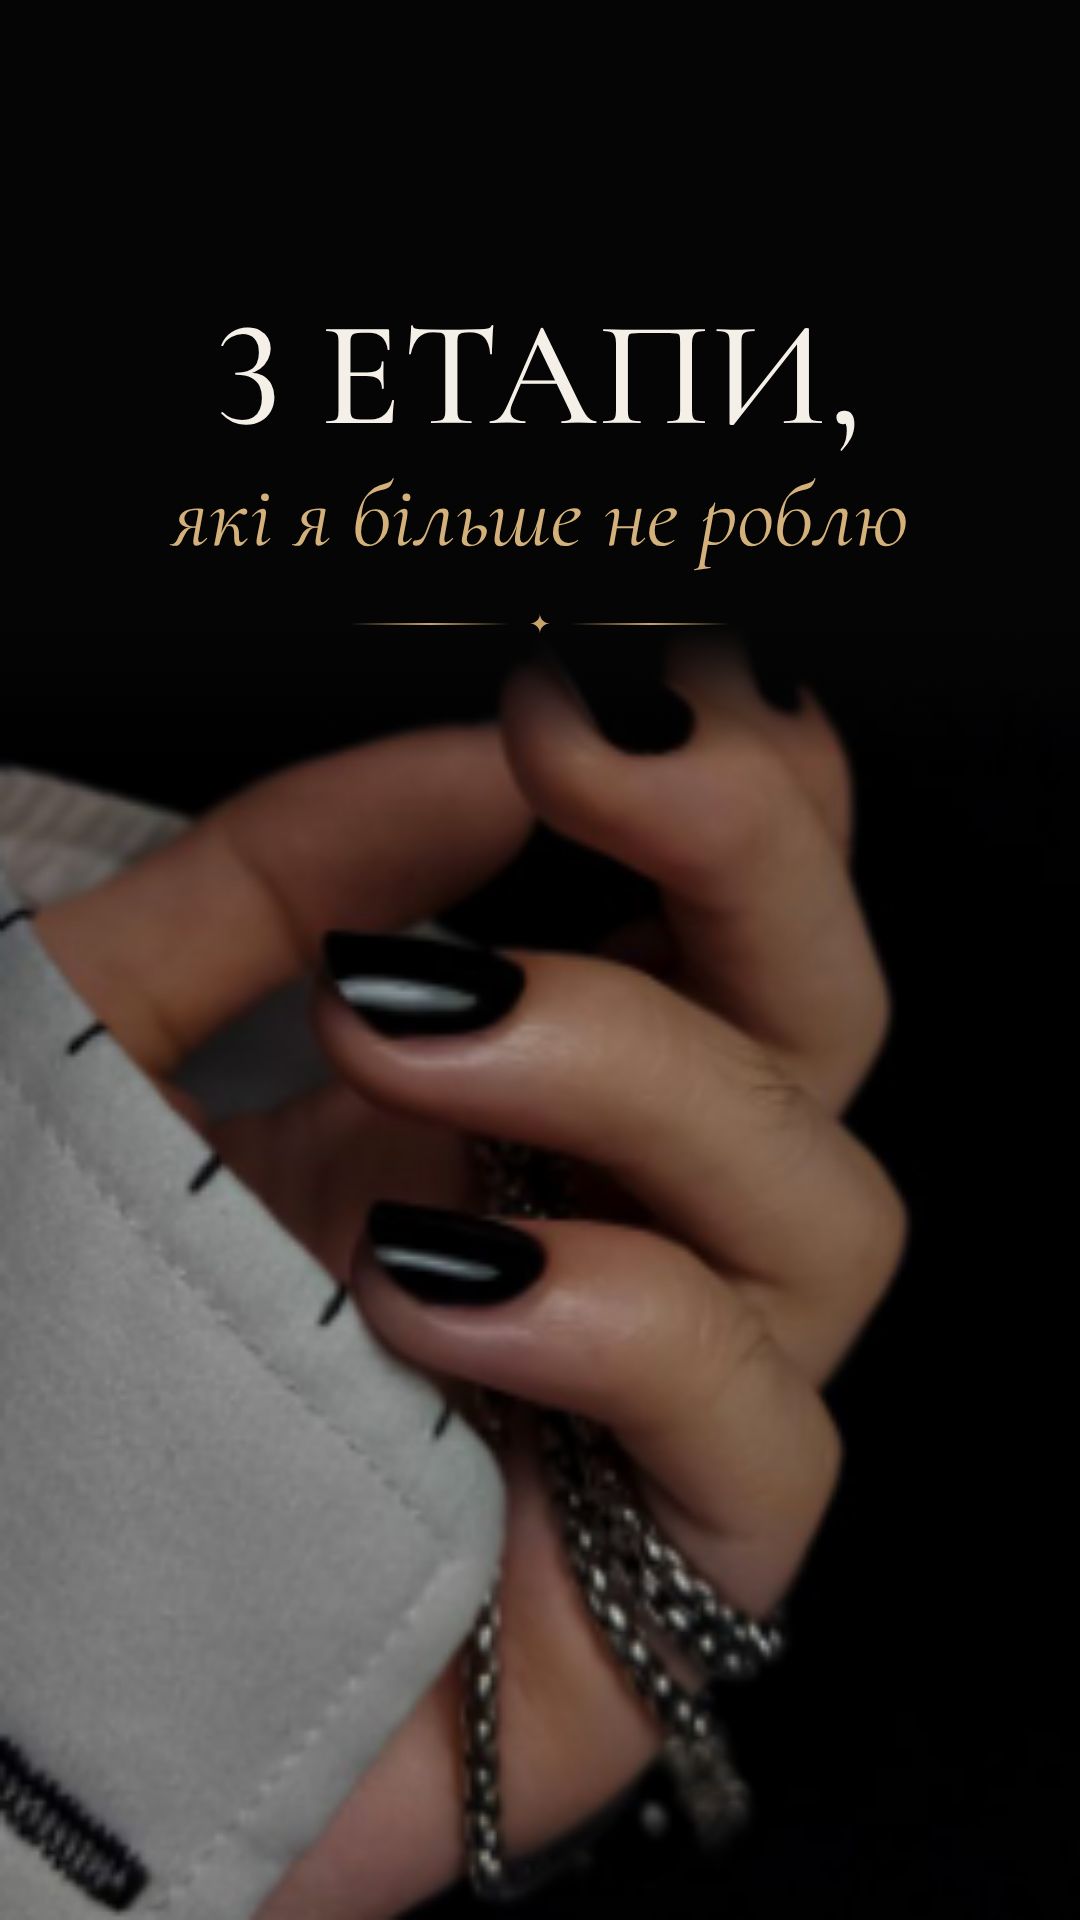
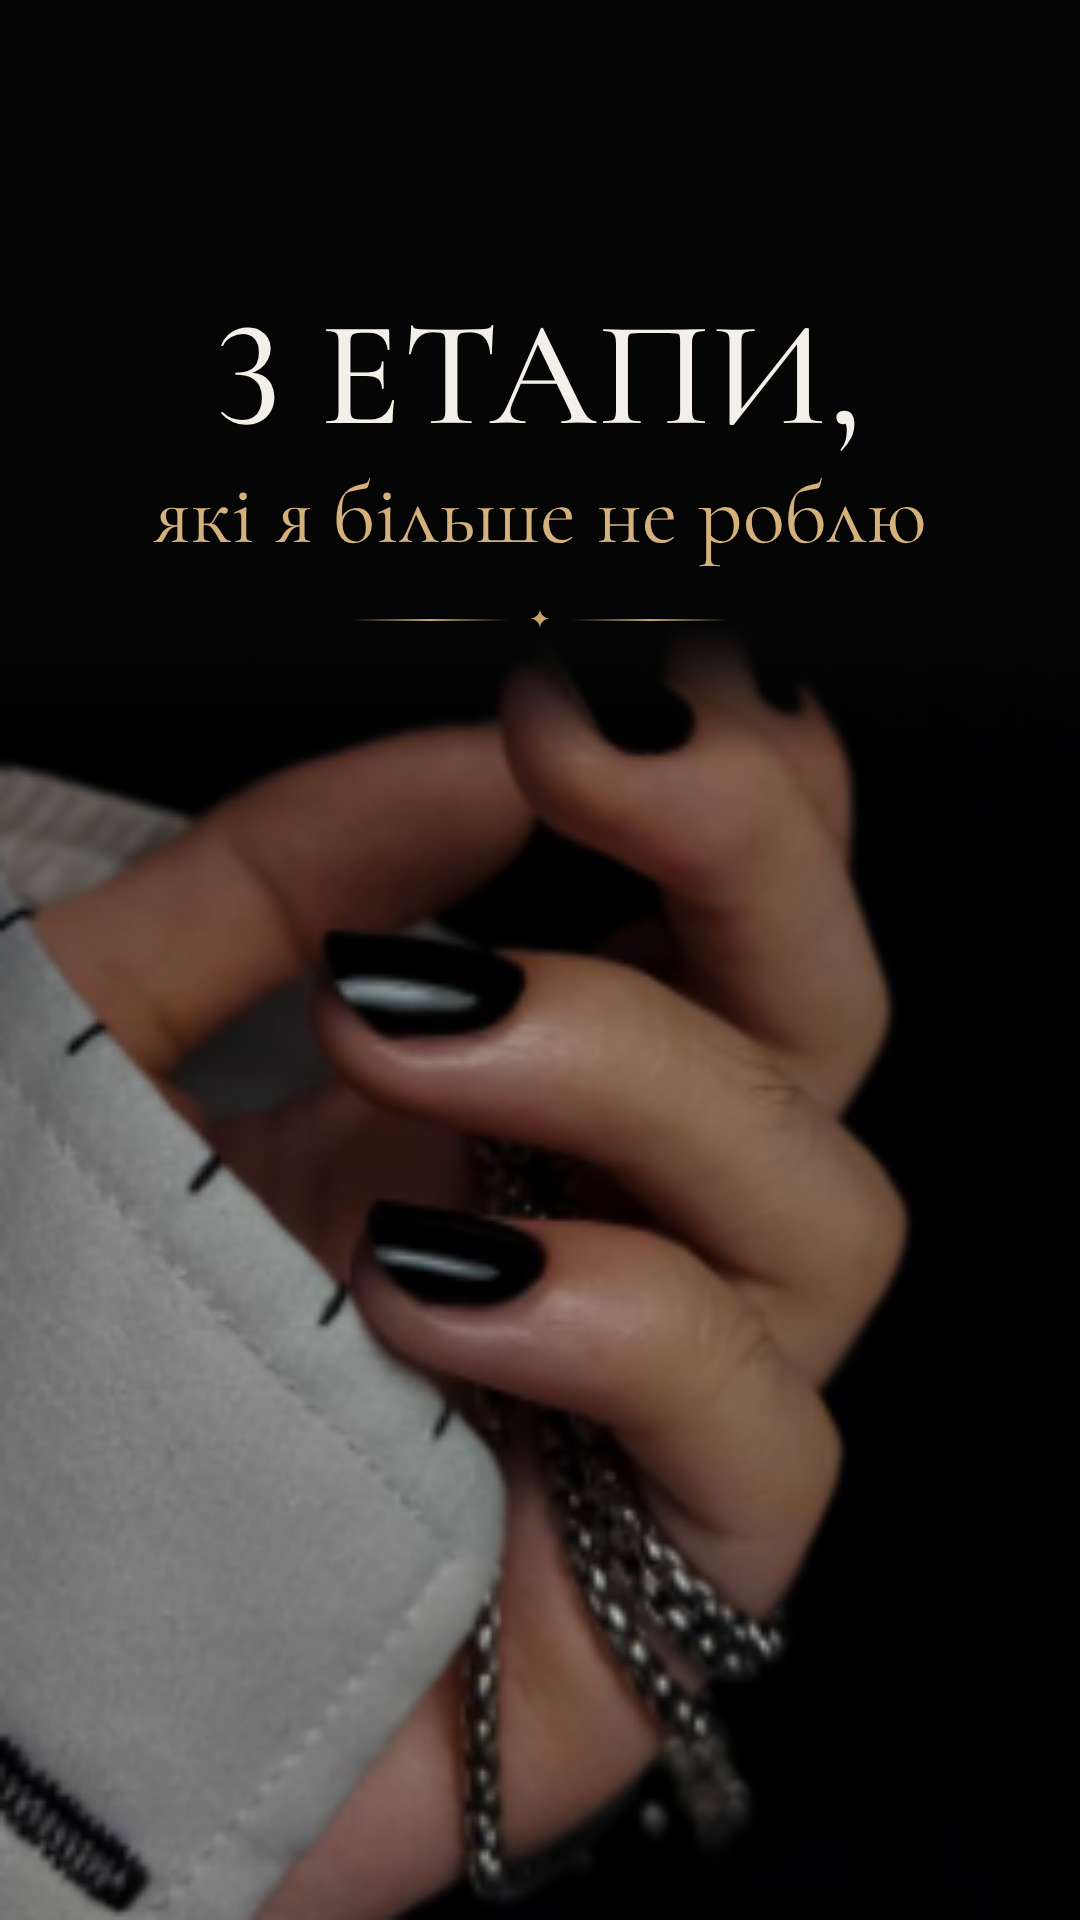
Use upright subtitle on Reels covers
Claude-Session: https://claude.ai/code/session_01MEGGhSdPE82PkZyTaQrXUD

Changed region(s): [[0.1528, 0.25, 0.6111, 0.2812], [0.6417, 0.25, 0.8556, 0.3125]]

diff --git a/reels-covers/render.js b/reels-covers/render.js
@@ -40,7 +40,7 @@ body { width: 1080px; height: 1920px; background: #050505; position: relative; o
 .big { font-size: 150px; font-weight: 500; text-transform: uppercase; line-height: 1; letter-spacing: 2px; }
 .big.sm { font-size: 120px; letter-spacing: 6px; }
 .num { font-size: 300px; line-height: 1; margin-bottom: 10px; color: #c9a46a; font-weight: 500; }
-.it { font-style: italic; font-size: 92px; color: #d4b17a; line-height: 1.05; margin-top: 18px; }
+.it { font-style: normal; font-size: 88px; color: #d4b17a; line-height: 1.05; margin-top: 18px; }
 .orn { display: flex; align-items: center; gap: 20px; width: 380px; margin: 44px auto 0; }
 .orn span { flex: 1; height: 1.5px; background: linear-gradient(90deg, transparent, #c9a46a, transparent); }
 .orn i { color: #c9a46a; font-style: normal; font-size: 26px; }
